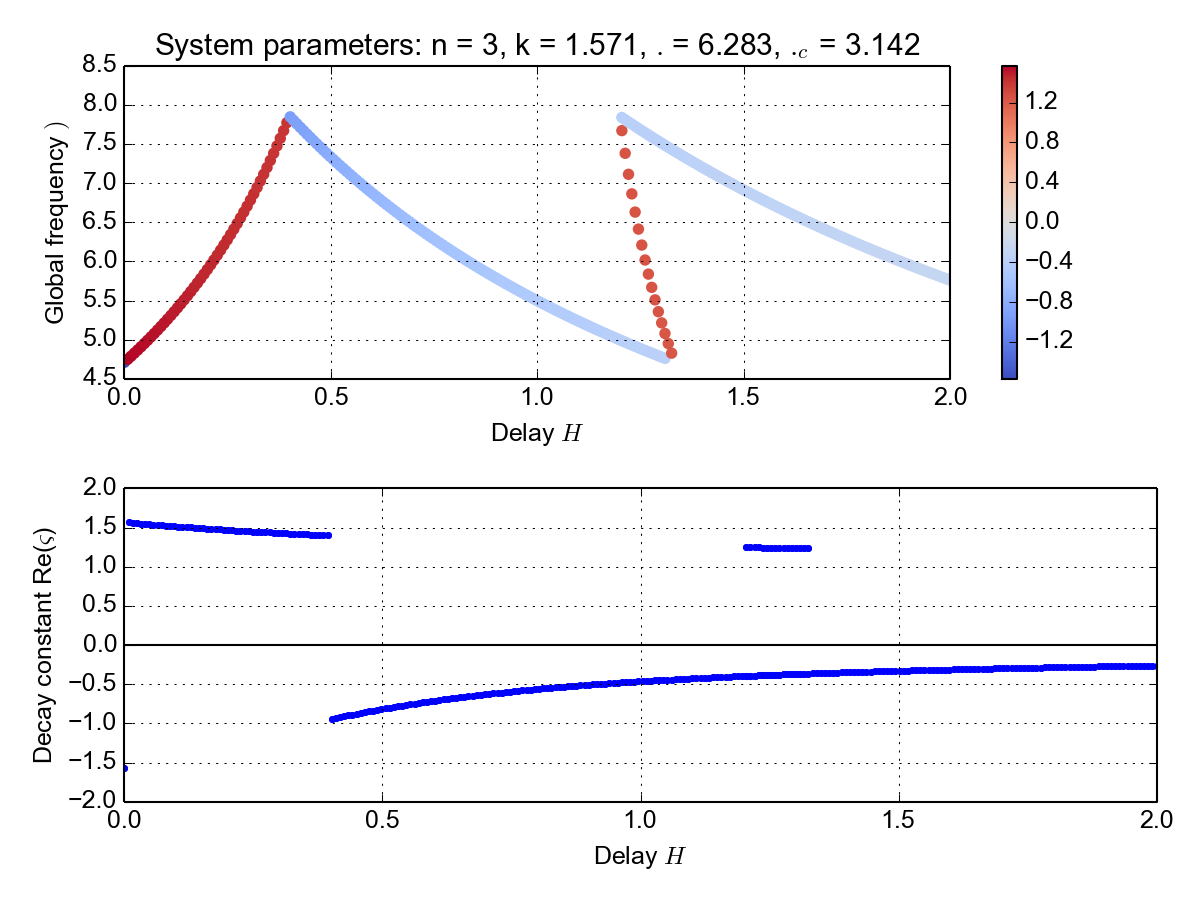
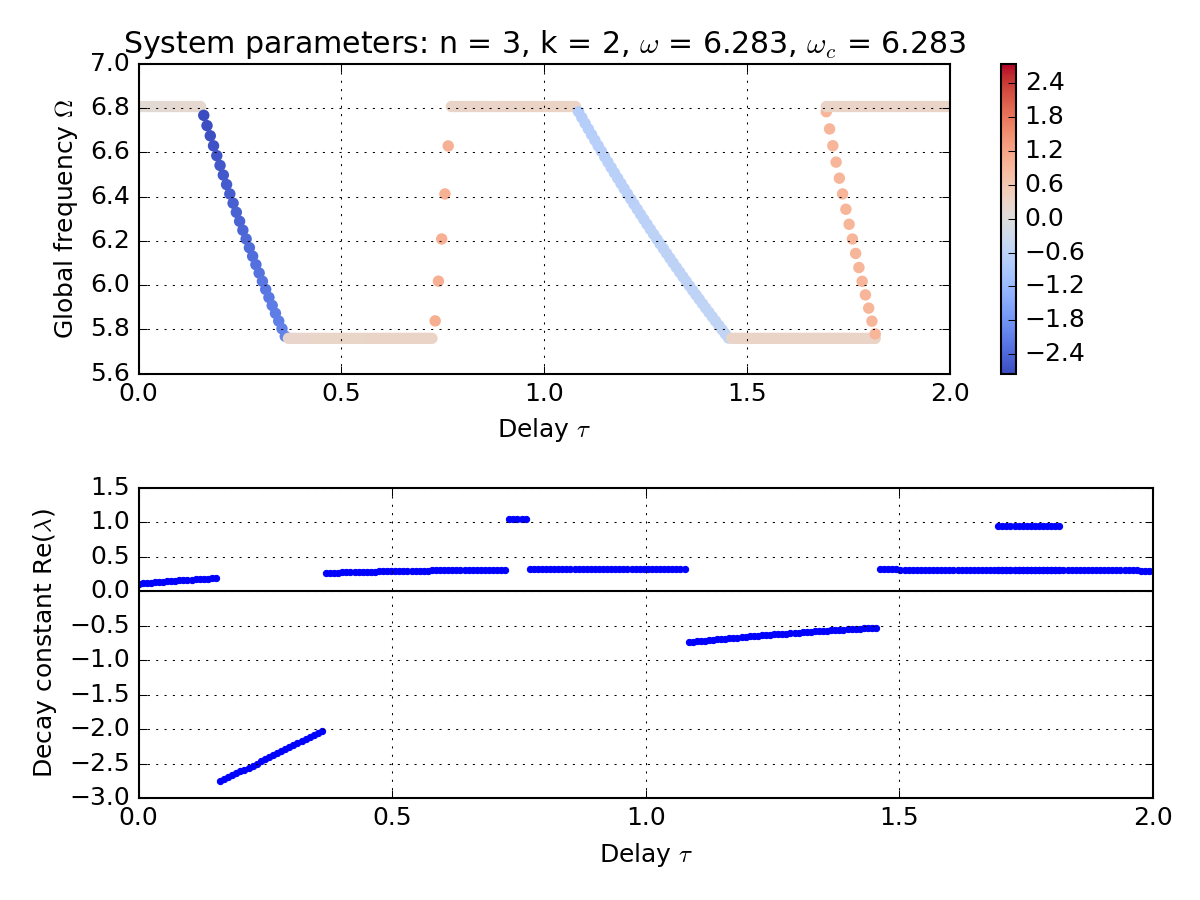
some first corrections for runable program ...more coming today

diff --git a/GlobFreq_LinStab/parameter_sweep_02.py b/GlobFreq_LinStab/parameter_sweep_02.py
@@ -39,9 +39,9 @@ print '1. Demo PLL, SweepFactory and FlatStateList objects'
 # System parameters
 n = 3
 w = 2 * np.pi
-k = 2 * np.pi * 0.25
-wc = 0.5 * w
-m = 0
+k = 1.57
+wc = 1 * w
+m = 1
 tau = np.linspace(0, 2, 250)
 h = synctools.Triangle(1.0 / (2 * np.pi))
 tsim = 0.1234
@@ -73,7 +73,7 @@ gs = gridspec.GridSpec(2, 1)
 xlim = [0, 2]
 
 plt.subplot(gs[0])
-plt.title(r'System parameters: n = %i, k = %.3f, $\omega$ = %.3f, $\omega_c$ = %.3f' % (n, k, w, wc))
+plt.title(r'System parameters: n = %i, k = %.f, $\omega$ = %.3f, $\omega_c$ = %.3f' % (n, k, w, wc))
 plt.scatter(tau2, omega2, c=c_l2, cmap=cmap, edgecolors='face', vmin=vmin, vmax=vmax)
 plt.colorbar()
 plt.legend(fontsize=9)
